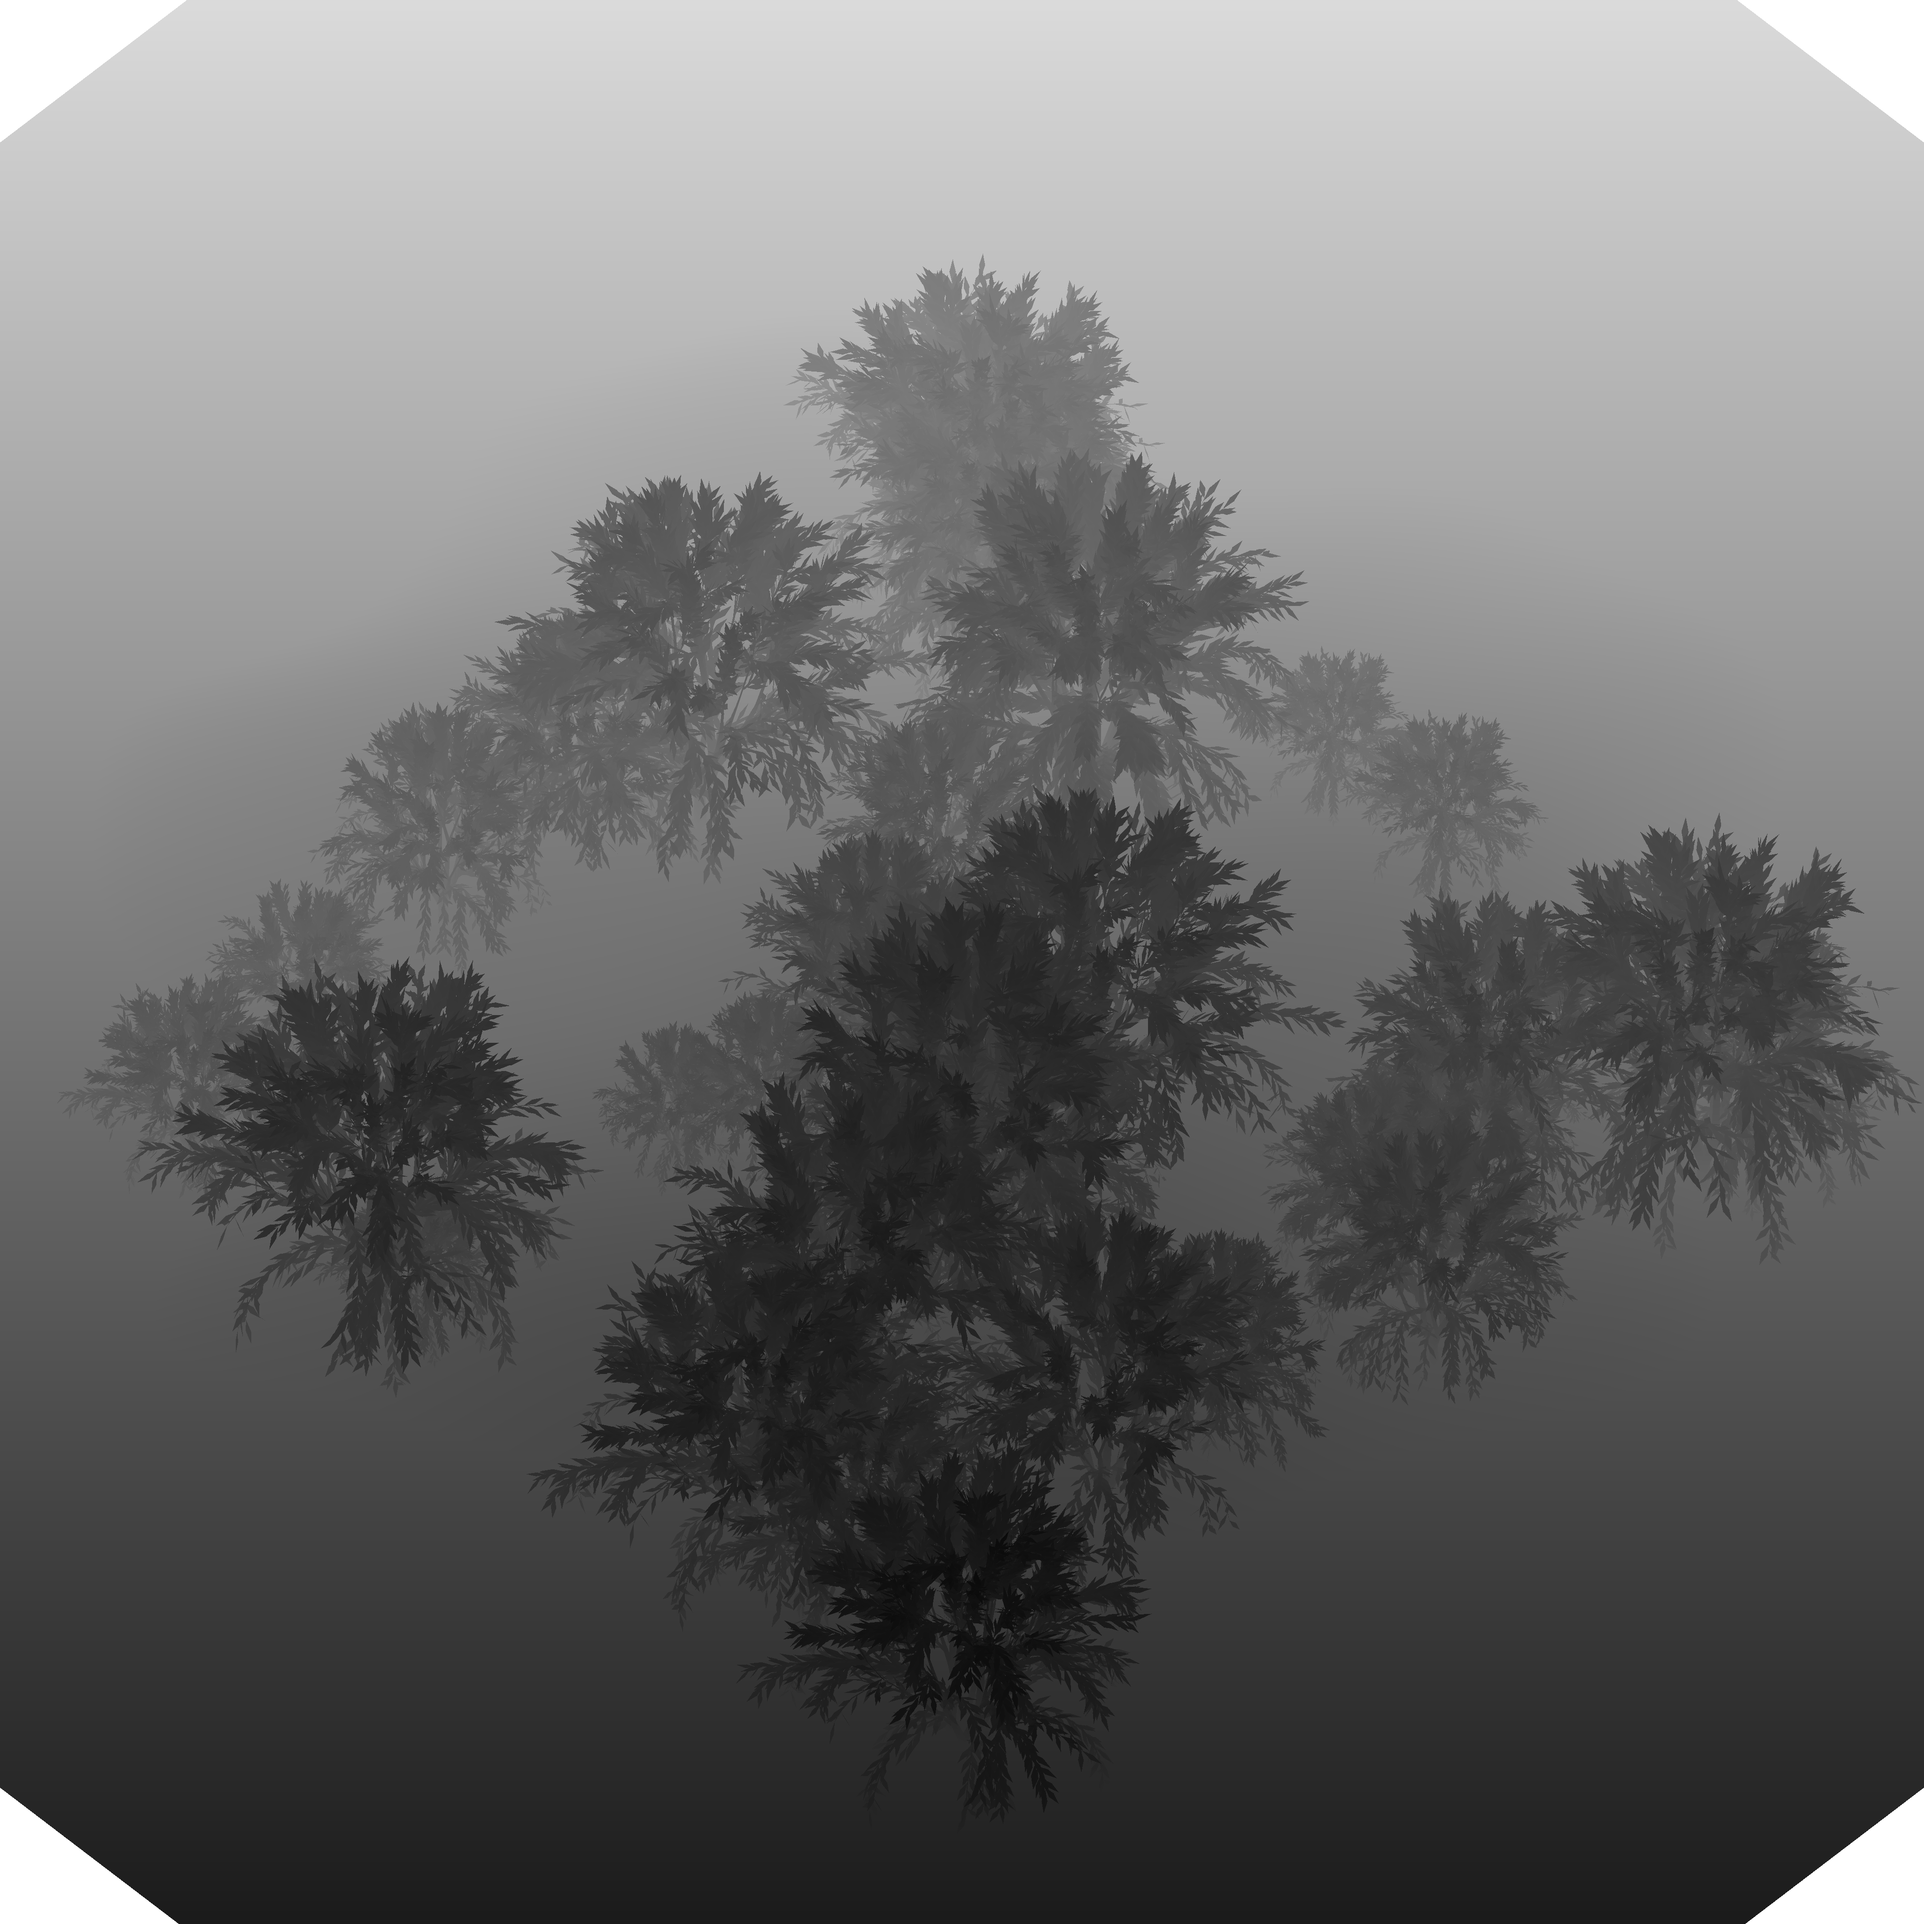
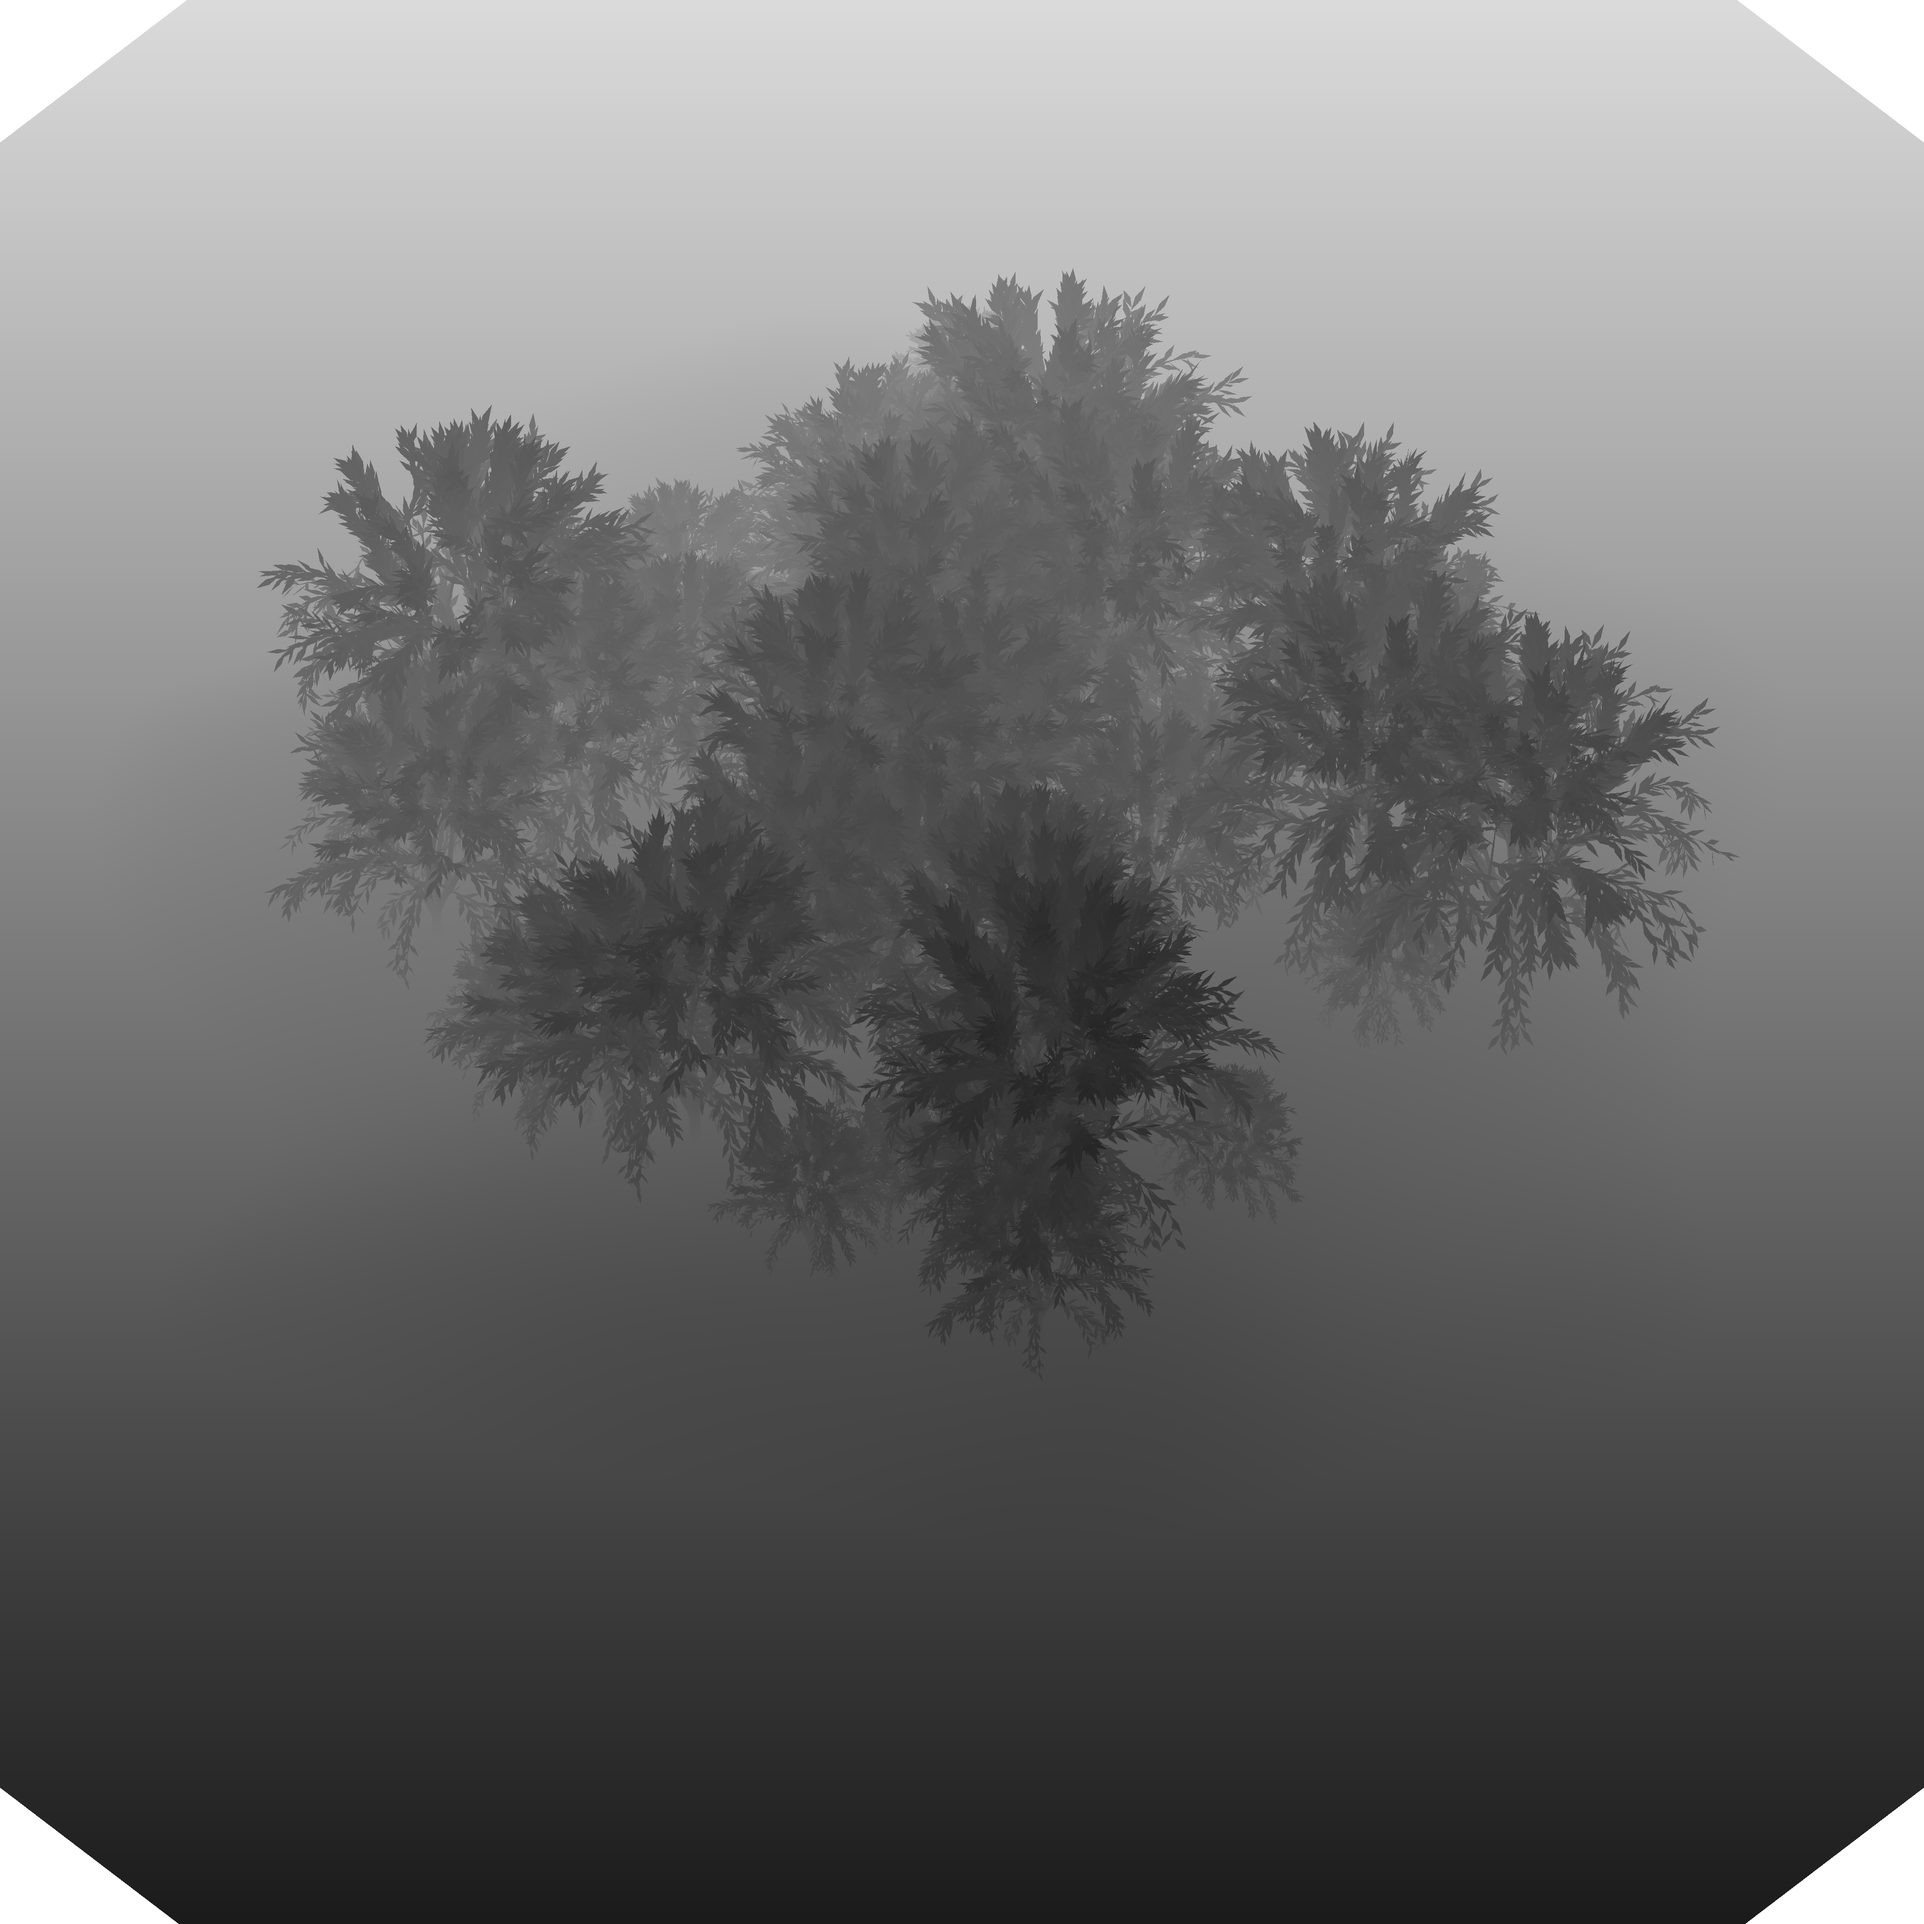
great scene

Changed region(s): [[0.0312, 0.125, 1.0, 0.9062]]

diff --git a/Proper Rasterizer/main.py b/Proper Rasterizer/main.py
@@ -514,6 +514,6 @@ tree_field.setup(scene.camera,
                     blender.load_mesh("models/jungle/tree_low.obj"),
                     Texture.Load("textures/tree/tree_albedo.png"),
                     None,
-                    1000)
+                    50)
 
 scene.run()
